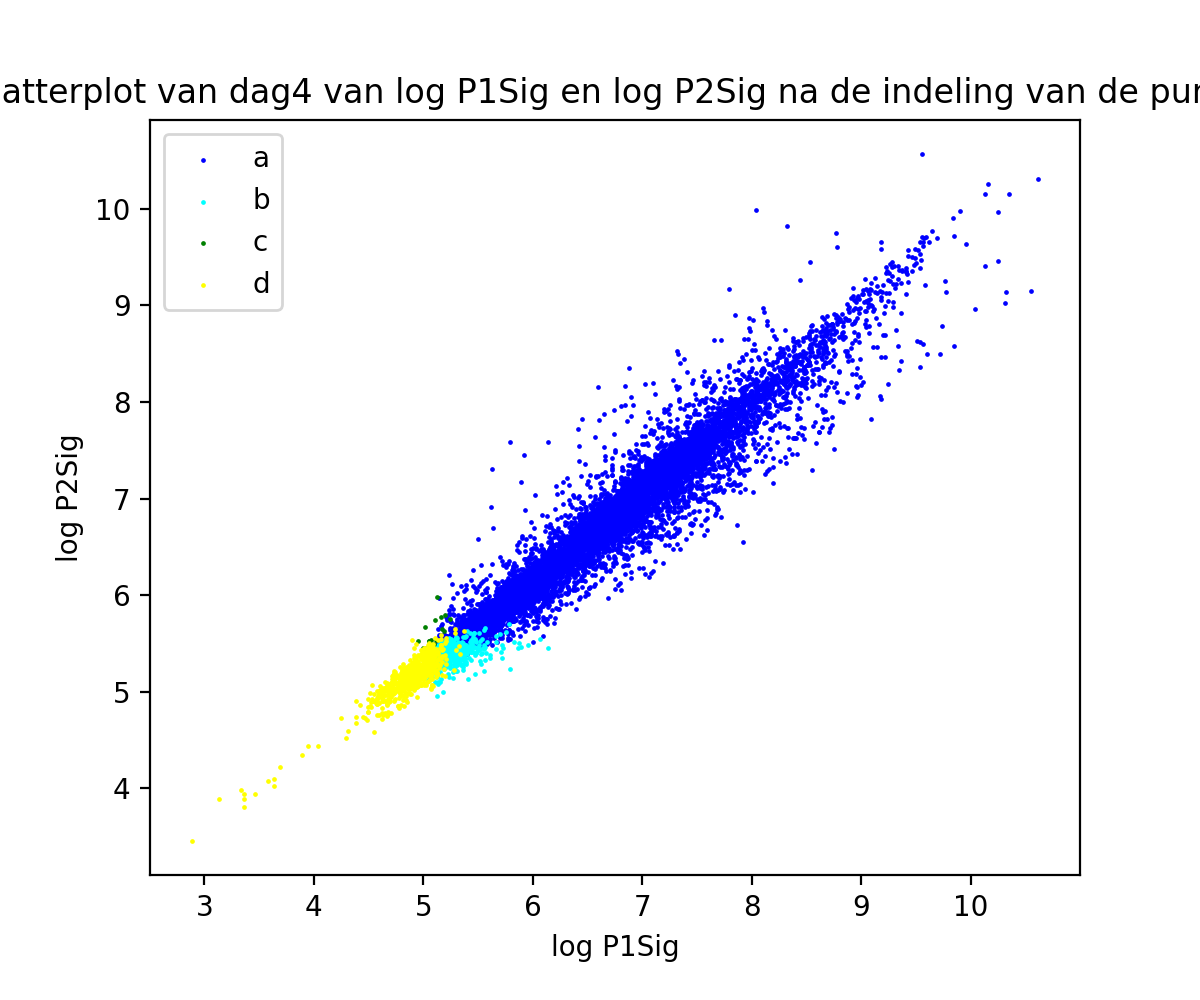
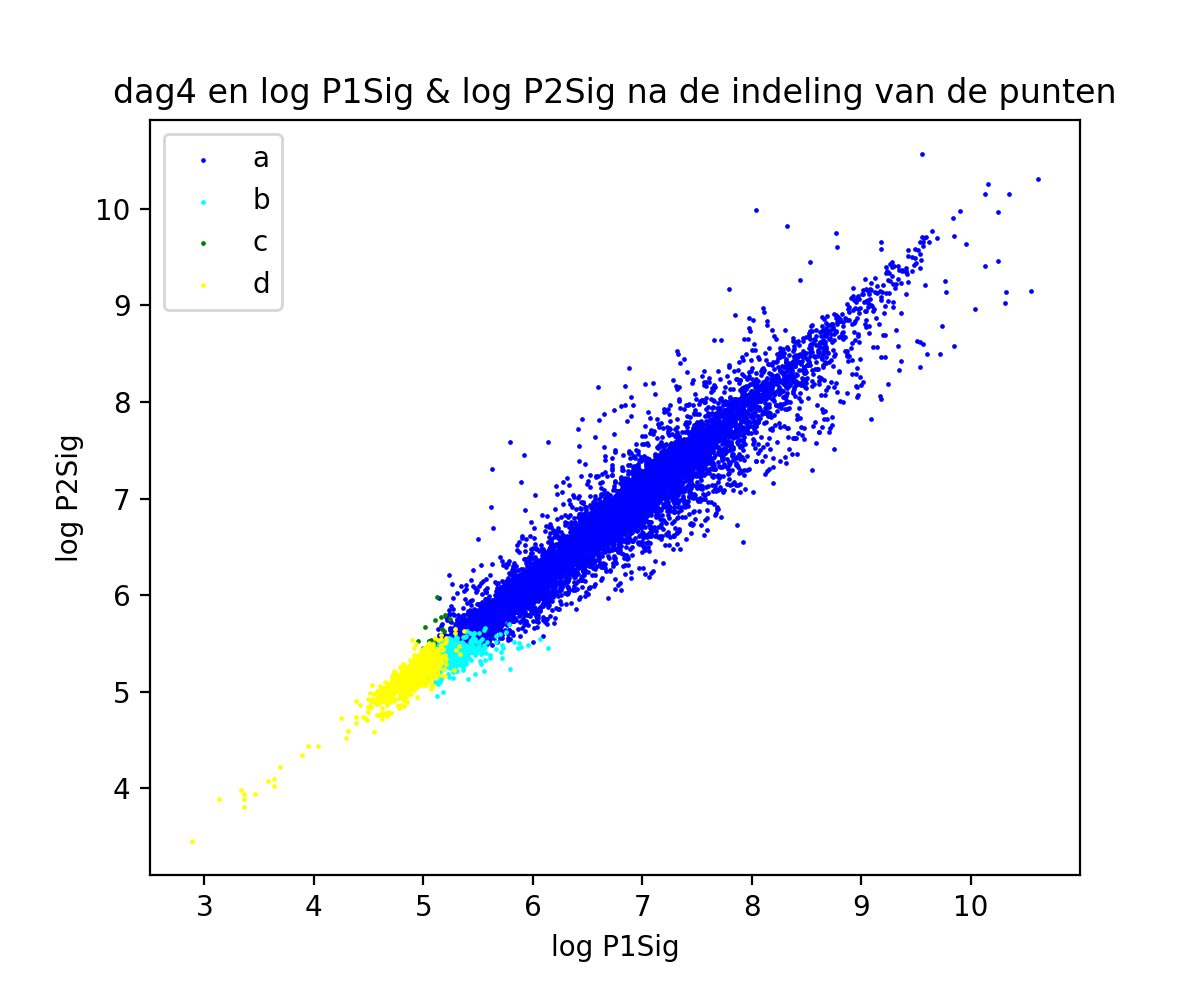
Update titel preprocessing plots

Changed region(s): [[0.0, 0.062, 1.0, 0.124]]

diff --git a/preprocessing.py b/preprocessing.py
@@ -61,12 +61,12 @@ def Uitplotten(df, data_bestand, wanneer='voor een correctie.',
             groep.plot(kind='scatter', x=x, y=y,
                        c=kleuren[klasse], ax=ax, s=0.5)
         plt.legend(['a', 'b', 'c', 'd'])
-        ax.set_title('Scatterplot van ' + data_bestand + ' van ' +
-                     x + ' en ' + y + ' na de indeling van de punten')
+        ax.set_title(data_bestand + ' en ' +
+                     x + ' & ' + y + ' na de indeling van de punten')
 
     else:
         ax = df.plot(kind='scatter', x=x, y=y, c=kleurp, s=0.5)
-        ax.set_title('Scatterplot van ' + data_bestand +
+        ax.set_title(data_bestand +
                      ' van ' + x + ' en ' + y + ' ' + wanneer)
 
     # Voegt een lijn toe aan de plot
